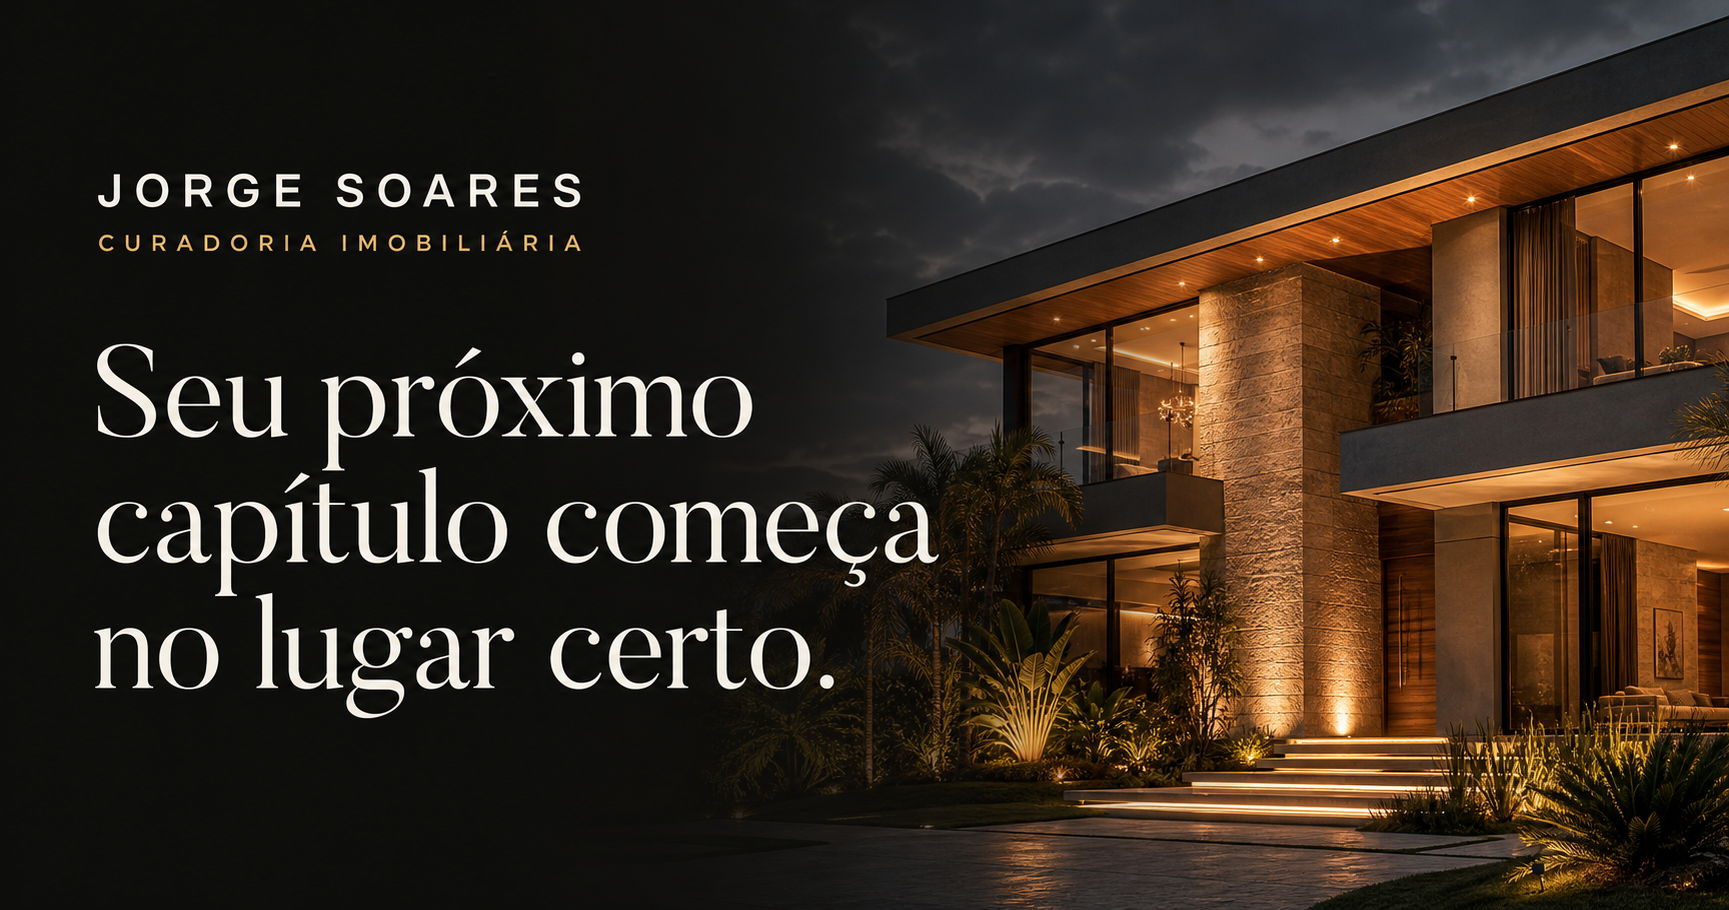
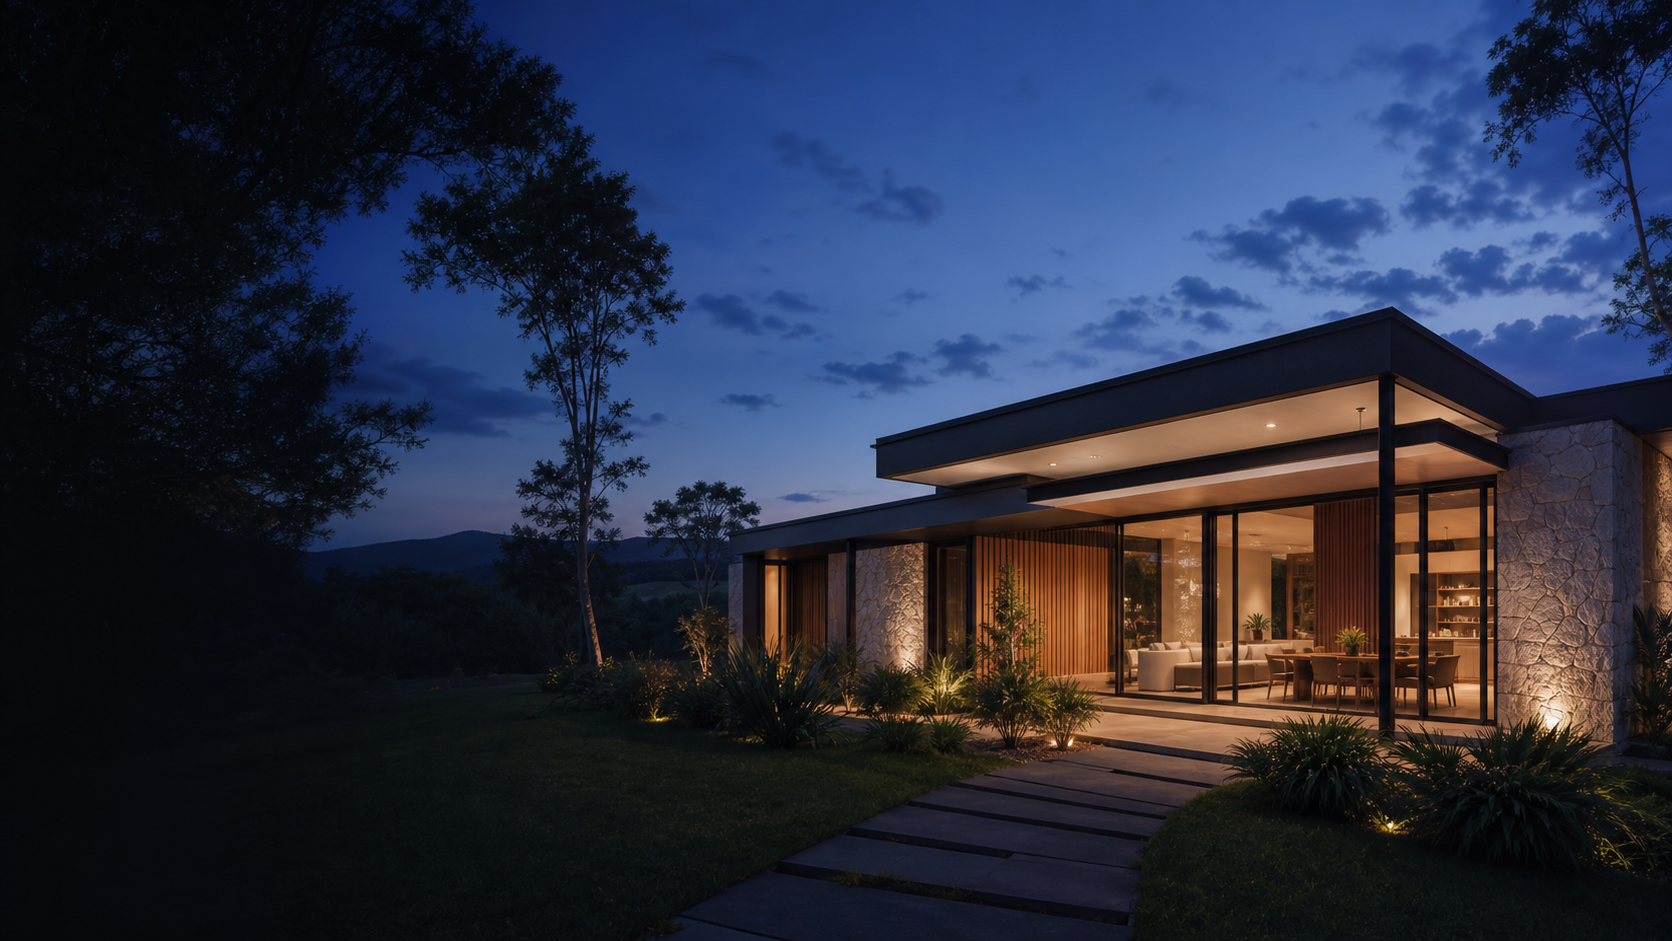
Rename brand to JLS Negócios Imobiliários

diff --git a/src/pages/HomePage.tsx b/src/pages/HomePage.tsx
@@ -34,8 +34,8 @@ export function HomePage() {
         <div className="site-container">
           <div className="profile-strip">
             <div className="profile-intro">
-              <img src="https://images.unsplash.com/photo-1560250097-0b93528c311a?auto=format&fit=crop&w=300&q=88" alt="Retrato de Jorge Soares" />
-              <div><span>Seu corretor</span><h2>Jorge Soares</h2><p>Especialista em imóveis em Viçosa e região · CRECI PJ: 8467</p></div>
+              <img src="https://images.unsplash.com/photo-1560250097-0b93528c311a?auto=format&fit=crop&w=300&q=88" alt="Retrato da JLS Negócios Imobiliários" />
+              <div><span>Seu corretor</span><h2>JLS Negócios Imobiliários</h2><p>Especialista em imóveis em Viçosa e região · CRECI PJ: 8467</p></div>
             </div>
             <p className="profile-quote">“O imóvel certo não é apenas uma escolha financeira. É o cenário da vida que você quer viver.”</p>
           </div>
@@ -61,11 +61,11 @@ export function HomePage() {
       <section className="about-section section-light" id="sobre">
         <div className="site-container about-grid">
           <div className="about-visual">
-            <img src="https://images.unsplash.com/photo-1560250097-0b93528c311a?auto=format&fit=crop&w=900&q=90" alt="Jorge Soares, corretor de imóveis" />
+            <img src="https://images.unsplash.com/photo-1560250097-0b93528c311a?auto=format&fit=crop&w=900&q=90" alt="JLS Negócios Imobiliários" />
             <div className="experience-stamp"><strong>12</strong><span>anos conectando<br />pessoas e lugares</span></div>
           </div>
           <div className="about-copy">
-            <span className="section-label">Sobre Jorge Soares</span>
+            <span className="section-label">Sobre JLS Negócios Imobiliários</span>
             <h2>Uma escolha importante pede uma conversa <em>honesta.</em></h2>
             <p>Meu trabalho começa antes da visita e não termina na entrega das chaves. Busco entender o que realmente importa para você, seleciono as oportunidades certas e conduzo cada negociação com transparência.</p>
             <p>Atuo com apartamentos, casas e terrenos em Viçosa e região, unindo conhecimento de mercado a um atendimento próximo, atento e sem pressa.</p>
@@ -91,7 +91,7 @@ export function HomePage() {
           <div className="whatsapp-card">
             <div className="whatsapp-card-icon"><MessageCircle /></div>
             <span className="whatsapp-card-label">Atendimento pelo WhatsApp</span>
-            <h3>Fale diretamente<br />com Jorge Soares.</h3>
+            <h3>Fale diretamente<br />com a JLS Negócios Imobiliários.</h3>
             <p>Conte o que procura e receba um atendimento pessoal, claro e sem compromisso.</p>
             <div className="whatsapp-benefits">
               <span><CheckCircle2 /> Resposta pessoal</span>

diff --git a/app/layout.tsx b/app/layout.tsx
@@ -9,10 +9,10 @@ export async function generateMetadata(): Promise<Metadata> {
   const origin = `${protocol}://${host}`;
   return {
     metadataBase: new URL(origin),
-    title: { default: "Jorge Soares | Corretor de Imóveis", template: "%s | Jorge Soares Imóveis" },
+    title: { default: "JLS Negócios Imobiliários | Imóveis em Viçosa", template: "%s | JLS Negócios Imobiliários" },
     description: "Curadoria de apartamentos, casas e lotes em Viçosa e região. Atendimento próximo e negociação transparente.",
-    openGraph: { title: "Jorge Soares | Curadoria Imobiliária", description: "Seu próximo capítulo começa no lugar certo.", type: "website", locale: "pt_BR", images: [{ url: `${origin}/og.png`, width: 1200, height: 630, alt: "Jorge Soares — Curadoria Imobiliária" }] },
-    twitter: { card: "summary_large_image", title: "Jorge Soares | Curadoria Imobiliária", description: "Seu próximo capítulo começa no lugar certo.", images: [`${origin}/og.png`] },
+    openGraph: { title: "JLS Negócios Imobiliários | Curadoria Imobiliária", description: "Seu próximo capítulo começa no lugar certo.", type: "website", locale: "pt_BR", images: [{ url: `${origin}/og.png`, width: 1672, height: 941, alt: "JLS Negócios Imobiliários — Curadoria Imobiliária" }] },
+    twitter: { card: "summary_large_image", title: "JLS Negócios Imobiliários | Curadoria Imobiliária", description: "Seu próximo capítulo começa no lugar certo.", images: [`${origin}/og.png`] },
   };
 }
 

diff --git a/src/pages/PropertyDetailsPage.tsx b/src/pages/PropertyDetailsPage.tsx
@@ -43,7 +43,7 @@ export function PropertyDetailsPage() {
         </article>
         <aside className="contact-card">
           <span>Valor do imóvel</span><strong>{formatPrice(property.preco)}</strong><small>Condições sujeitas a confirmação</small>
-          <div className="contact-agent"><img src="https://images.unsplash.com/photo-1560250097-0b93528c311a?auto=format&fit=crop&w=160&q=86" alt="Jorge Soares" /><div><b>Jorge Soares</b><span>CRECI PJ: 8467</span></div></div>
+          <div className="contact-agent"><img src="https://images.unsplash.com/photo-1560250097-0b93528c311a?auto=format&fit=crop&w=160&q=86" alt="JLS Negócios Imobiliários" /><div><b>JLS Negócios Imobiliários</b><span>CRECI PJ: 8467</span></div></div>
           <a className="button button--whatsapp" href={whatsappUrl(`Olá Jorge, tenho interesse no imóvel ${property.titulo}.`)} target="_blank" rel="noreferrer"><MessageCircle size={19} /> Conversar no WhatsApp</a>
           <p>Atendimento pessoal, sem compromisso.</p>
         </aside>

diff --git a/src/pages/AdminPage.tsx b/src/pages/AdminPage.tsx
@@ -80,7 +80,7 @@ export function AdminPage() {
       <aside className="admin-sidebar">
         <div className="brand"><span className="brand-main">JORGE</span><span className="brand-accent">SOARES</span><span className="brand-tag">GESTÃO</span></div>
         <nav><button className="active"><LayoutDashboard /> Visão geral</button><button><Building2 /> Imóveis</button></nav>
-        <div className="admin-user"><span>{user.email?.slice(0, 1).toUpperCase()}</span><div><strong>Jorge Soares</strong><small>{user.email}</small></div></div>
+        <div className="admin-user"><span>{user.email?.slice(0, 1).toUpperCase()}</span><div><strong>JLS Negócios Imobiliários</strong><small>{user.email}</small></div></div>
         <button className="logout" onClick={() => supabase!.auth.signOut()}><LogOut /> Sair</button>
       </aside>
       <section className="admin-main">

diff --git a/src/pages/PropertiesPage.tsx b/src/pages/PropertiesPage.tsx
@@ -64,7 +64,7 @@ export function PropertiesPage() {
   return (
     <main className="inner-page">
       <section className="page-hero page-hero--properties">
-        <div className="site-container"><span className="section-label section-label--gold">Curadoria Jorge Soares</span><h1>Imóveis para viver<br /><em>boas histórias.</em></h1><p>Explore nossa seleção e encontre o endereço que conversa com o seu momento.</p></div>
+        <div className="site-container"><span className="section-label section-label--gold">Curadoria JLS Negócios Imobiliários</span><h1>Imóveis para viver<br /><em>boas histórias.</em></h1><p>Explore nossa seleção e encontre o endereço que conversa com o seu momento.</p></div>
       </section>
       <section className="list-section section-light">
         <div className="site-container">

diff --git a/src/components/Footer.tsx b/src/components/Footer.tsx
@@ -23,7 +23,7 @@ export function Footer() {
         </div>
       </div>
       <div className="site-container footer-bottom">
-        <span>© {new Date().getFullYear()} Jorge Soares Imóveis</span><span>CRECI PJ: 8467 · Todos os direitos reservados</span>
+        <span>© {new Date().getFullYear()} JLS Negócios Imobiliários</span><span>CRECI PJ: 8467 · Todos os direitos reservados</span>
       </div>
     </footer>
   );

diff --git a/README.md b/README.md
@@ -1,4 +1,4 @@
-# Jorge Soares Imóveis
+# JLS Negócios Imobiliários
 
 Site institucional e catálogo imobiliário responsivo, com área pública e painel administrativo conectado ao Supabase.
 
@@ -18,4 +18,4 @@ Site institucional e catálogo imobiliário responsivo, com área pública e pai
 - `/admin/login` — autenticação por e-mail e senha
 - `/admin` — CRUD, fotos e controle de destaques
 
-Antes da publicação definitiva, substitua retrato e domínio pelos dados reais de Jorge Soares.
+Antes da publicação definitiva, substitua retrato e domínio pelos dados reais da JLS Negócios Imobiliários.
